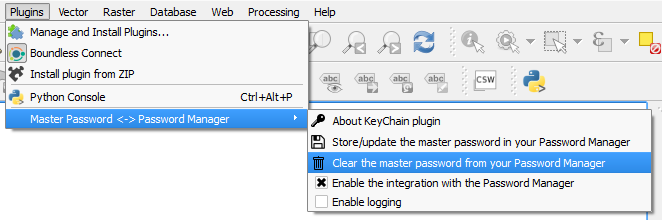
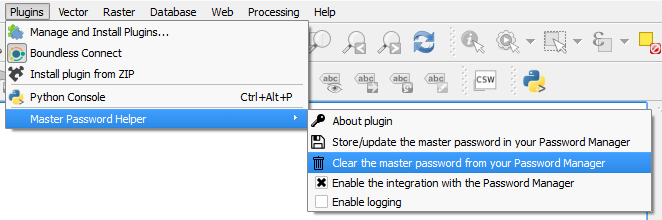
Updates documentation with new plugin's name

Changed region(s): [[0.1813, 0.5182, 0.3625, 0.5727], [0.5438, 0.5182, 0.6647, 0.5727]]

diff --git a/docs/source/conf.py b/docs/source/conf.py
@@ -43,7 +43,7 @@ source_suffix = '.rst'
 master_doc = 'index'
 
 # General information about the project.
-project = u'KeyChain Plugin'
+project = u'Master Password Helper'
 copyright = u'2016, Boundless Spatial'
 
 # The version info for the project you're documenting, acts as replacement for
@@ -176,7 +176,7 @@ html_theme_path = ['../themes']
 #html_file_suffix = None
 
 # Output file base name for HTML help builder.
-htmlhelp_basename = 'keychainplugin'
+htmlhelp_basename = 'masterpasswordhelper'
 
 
 # -- Options for LaTeX output ---------------------------------------------
@@ -222,8 +222,8 @@ latex_documents = [
 
 # Substitutions
 rst_epilog = """
-.. |BLQGIS| replace:: *Bouldless Desktop*
-.. |current_plugin| replace:: *KeyChain Plugin*
+.. |BLQGIS| replace:: *Boundless Desktop*
+.. |current_plugin| replace:: *Master Password Helper*
 """
 
 
@@ -232,7 +232,7 @@ rst_epilog = """
 # One entry per manual page. List of tuples
 # (source start file, name, description, authors, manual section).
 man_pages = [
-    ('index', 'keychainplugin', u'KeyChain Plugin Documentation',
+    ('index', 'masterpasshelper', u'Master Password Helper Documentation',
      [u'Boundless'], 1)
 ]
 
@@ -246,8 +246,8 @@ man_pages = [
 # (source start file, target name, title, author,
 #  dir menu entry, description, category)
 texinfo_documents = [
-  ('index', 'keychainplugin', u'KeyChain Plugin Documentation',
-   u'Boundless', u'keychainplugin', "C++ plugin to store QGIS master password in OS's KeyChain/Wallet.",
+  ('index', 'masterpasshelper', u'Master Password Helper Documentation',
+   u'Boundless', u'masterpasshelper', "C++ plugin to store QGIS's master password in the user's OS KeyChain/Wallet.",
    'Authentication'),
 ]
 

diff --git a/docs/source/usage.rst b/docs/source/usage.rst
@@ -8,11 +8,11 @@ Usage
 
 Store and update master password
 --------------------------------
-In menus, click :menuselection:`Plugins --> Master Password <->Password Manager --> Store/update the master password in your Password Manager`.
+In menus, click :menuselection:`Plugins --> Master Password Helper --> Store/update the master password in your Password Manager`.
 
 .. figure:: img/store_master_password.png
 
-If you have already set a Master Password, but you have not enter it in the current QGIS session, QGIS asks you to type it in.
+If you have already set a Master Password, but you have not entered it in the current QGIS session, QGIS asks you to type it in.
 
 .. figure:: img/enter_master_password.png
 
@@ -26,12 +26,12 @@ If you have already entered the master password in the current QGIS session, a m
 
 .. note::
 
-   If you reset your master password, you must click :menuselection:`Plugins --> Master Password <->Password Manager --> Store/update the master password in your Password Manager` again to update the change in the system's Password Manager.
+   If you reset your master password, you must click :menuselection:`Plugins --> Master Password Helper --> Store/update the master password in your Password Manager` again to update the change in the system's Password Manager.
 
 Clear master password
 ---------------------
 
-To delete the Master Password from the system's Password Manager, click :menuselection:`Plugins --> Master Password <->Password Manager --> Clear the master password from your Password Manager`.
+To delete the Master Password from the system's Password Manager, click :menuselection:`Plugins --> Master Password Helper --> Clear the master password from your Password Manager`.
 
 .. figure:: img/clear_master_password.png
 
@@ -46,7 +46,7 @@ By default, integration with Password Manager is enabled.
 
 .. figure:: img/integration_enabled.png
 
-Click :menuselection:`Plugins --> Master Password <->Password Manager --> Enable integration with Password Manager` once and it will be disabled. A message informs that **"Your Password Manager will not be used anymore to store and retrieve the master password"**.
+Click :menuselection:`Plugins --> Master Password Helper --> Enable integration with Password Manager` once, and it will be disabled. A message informs that **"Your Password Manager will not be used anymore to store and retrieve the master password"**.
 
 .. figure:: img/integration_disabled.png
 
@@ -54,12 +54,12 @@ Click :menuselection:`Plugins --> Master Password <->Password Manager --> Enable
 
    Disabling this option does not remove the master password from the Password Manager.
 
-Click :menuselection:`Plugins --> Master Password <->Password Manager --> Enable integration with Password Manager` again and it will be enabled. A message informs that **"Your Password Manager will be used from now on to store and retrieve the master password"**.
+Click :menuselection:`Plugins --> Master Password Helper --> Enable integration with Password Manager` again, and it will be enabled. A message informs that **"Your Password Manager will be used from now on to store and retrieve the master password"**.
 
 Logging
 -------
 
-The plugin allows you to log its messages. Click :menuselection:`Plugins --> Master Password <->Password Manager --> Enable logging` to turn logging on.
+The plugin allows you to log its messages. Click :menuselection:`Plugins --> Master Password Helper --> Enable logging` to turn logging on.
 
 .. figure:: img/enable_logging.png
 

diff --git a/docs/source/index.rst b/docs/source/index.rst
@@ -1,14 +1,14 @@
 .. (c) 2016 Boundless, http://boundlessgeo.com
    This code is licensed under the GPL 2.0 license.
 
-KeyChain Plugin's documentation
-===============================
+Master Password Helper documentation
+====================================
 
-|current_plugin| is a C++ QGIS plugin to store and synchronization of QGIS's master password in the user's operating system's Wallet/keyChain/Password Manager. Using this plugin, the user no longer needs to repeatedly type the master password inside QGIS, as the system stores it and uses it whenever required.
+|current_plugin| is a C++ QGIS plugin to store and synchronize QGIS's master password in the user's operating system's Wallet/keyChain/Password Manager. Using this plugin, the user no longer needs to repeatedly type the master password inside QGIS, as the system stores it and uses it whenever is required.
 
 .. note::
 
-   The plugin is only helpful if the user stores his connection's credentials in QGIS's encrypted authentication system.
+   The plugin is only helpful if the user stores his credentials in QGIS's encrypted authentication system.
 
 Documentation contents:
 

diff --git a/README.md b/README.md
@@ -1,4 +1,4 @@
-# KeyChain Authmanager Bridge
+# Master Password Helper
 
 This plugin enables storage and synchronization of the master password with
 an external wallet.
